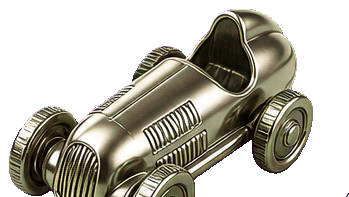
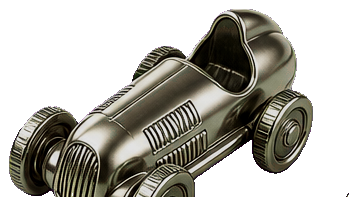
fix(assets): tune top car token

diff --git a/index.html b/index.html
@@ -5,16 +5,16 @@
     <meta name="viewport" content="width=device-width, initial-scale=1.0" />
     <title>Matthew Opoly Timer Table</title>
     <link rel="icon" type="image/svg+xml" href="./assets/favicon.svg" />
-    <link rel="stylesheet" href="./styles.css?v=20260527e" />
+    <link rel="stylesheet" href="./styles.css?v=20260527f" />
   </head>
   <body>
     <main class="app-shell" id="appShell" data-theme="classic">
-      <img class="prop-image prop-board asset-board-left" src="./assets/props/board-left.png?v=20260527d" alt="" aria-hidden="true" />
-      <img class="prop-image prop-board asset-board-right" src="./assets/props/board-right.png?v=20260527d" alt="" aria-hidden="true" />
-      <img class="prop-image asset-die-top" src="./assets/props/die-top-single.png?v=20260527d" alt="" aria-hidden="true" />
-      <img class="prop-image asset-car-top" src="./assets/props/car-top.png?v=20260527d" alt="" aria-hidden="true" />
-      <img class="prop-image asset-money-hat" src="./assets/props/money-hat.png?v=20260527d" alt="" aria-hidden="true" />
-      <img class="prop-image asset-dice-bottom" src="./assets/props/dice-bottom.png?v=20260527d" alt="" aria-hidden="true" />
+      <img class="prop-image prop-board asset-board-left" src="./assets/props/board-left.png?v=20260527f" alt="" aria-hidden="true" />
+      <img class="prop-image prop-board asset-board-right" src="./assets/props/board-right.png?v=20260527f" alt="" aria-hidden="true" />
+      <img class="prop-image asset-die-top" src="./assets/props/die-top-single.png?v=20260527f" alt="" aria-hidden="true" />
+      <img class="prop-image asset-car-top" src="./assets/props/car-top.png?v=20260527f" alt="" aria-hidden="true" />
+      <img class="prop-image asset-money-hat" src="./assets/props/money-hat.png?v=20260527f" alt="" aria-hidden="true" />
+      <img class="prop-image asset-dice-bottom" src="./assets/props/dice-bottom.png?v=20260527f" alt="" aria-hidden="true" />
 
       <header class="topbar">
         <section class="brand-block" aria-label="Game title">

diff --git a/src/styles/app.css b/src/styles/app.css
@@ -125,10 +125,11 @@ p {
 
 .asset-car-top {
   display: block;
-  top: 2px;
-  right: 42px;
+  top: -28px;
+  right: 10px;
   width: 132px;
   transform: rotate(-11deg);
+  z-index: 8;
 }
 
 .asset-board-left {

diff --git a/styles.css b/styles.css
@@ -1,2 +1,2 @@
-@import url("./src/styles/app.css?v=20260527e");
-@import url("./src/styles/refinements.css?v=20260527e");
+@import url("./src/styles/app.css?v=20260527f");
+@import url("./src/styles/refinements.css?v=20260527f");